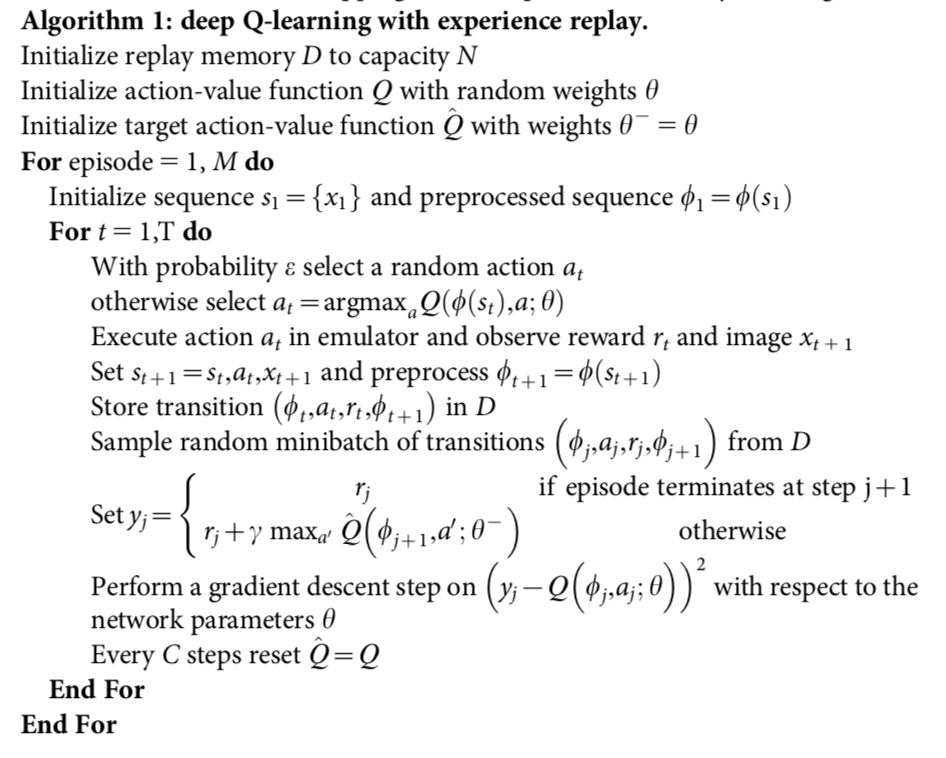
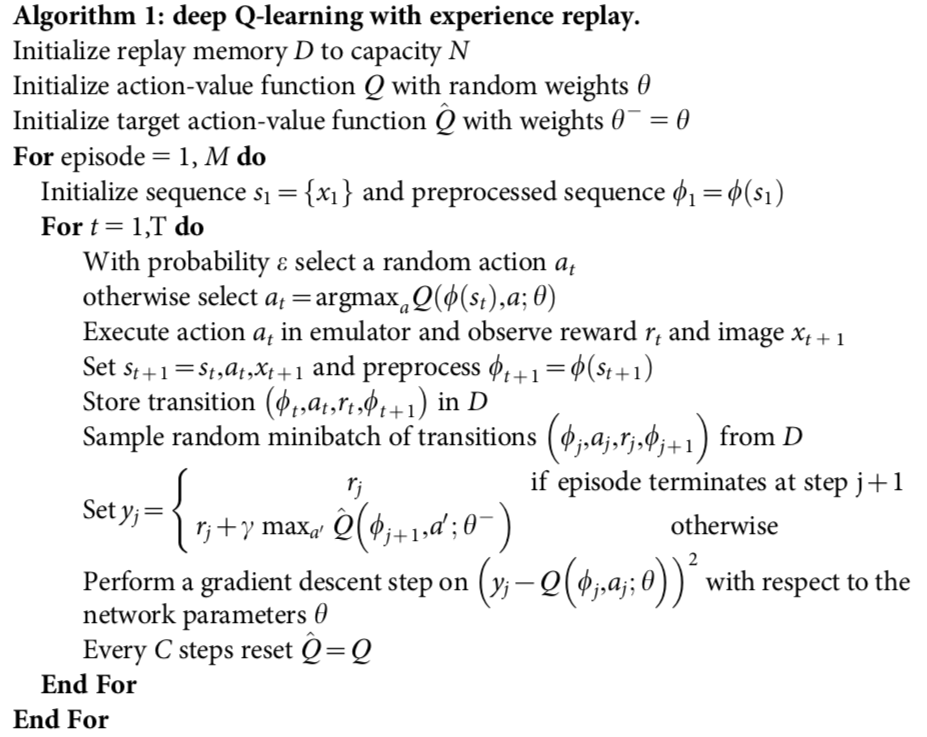
still trying to get latex to work

Changed region(s): [[0.0, 0.0, 0.9968, 0.9986]]

diff --git a/_includes/themes/minima/default.html b/_includes/themes/minima/default.html
@@ -1,3 +1,25 @@
-<script type="text/javascript"
-    src="http://cdn.mathjax.org/mathjax/latest/MathJax.js?config=TeX-AMS-MML_HTMLorMML">
+<!-- {% if page.mathjax %}
+<script type="text/x-mathjax-config">
+  MathJax.Hub.Config({
+    tex2jax: {
+      inlineMath: [ ['$','$'], ["\\(","\\)"] ],
+      processEscapes: true
+    }
+  });
 </script>
+<script
+  type="text/javascript"
+  charset="utf-8"
+  src="https://cdn.mathjax.org/mathjax/latest/MathJax.js?config=TeX-AMS-MML_HTMLorMML"
+>
+</script>
+<script
+  type="text/javascript"
+  charset="utf-8"
+  src="https://vincenttam.github.io/javascripts/MathJaxLocal.js"
+>
+</script>
+{% endif %} -->
+<script type="text/javascript" async
+src="https://cdnjs.cloudflare.com/ajax/libs/mathjax/2.7.1/MathJax.js?
+config=TeX-AMS-MML_HTMLorMML"></script>
